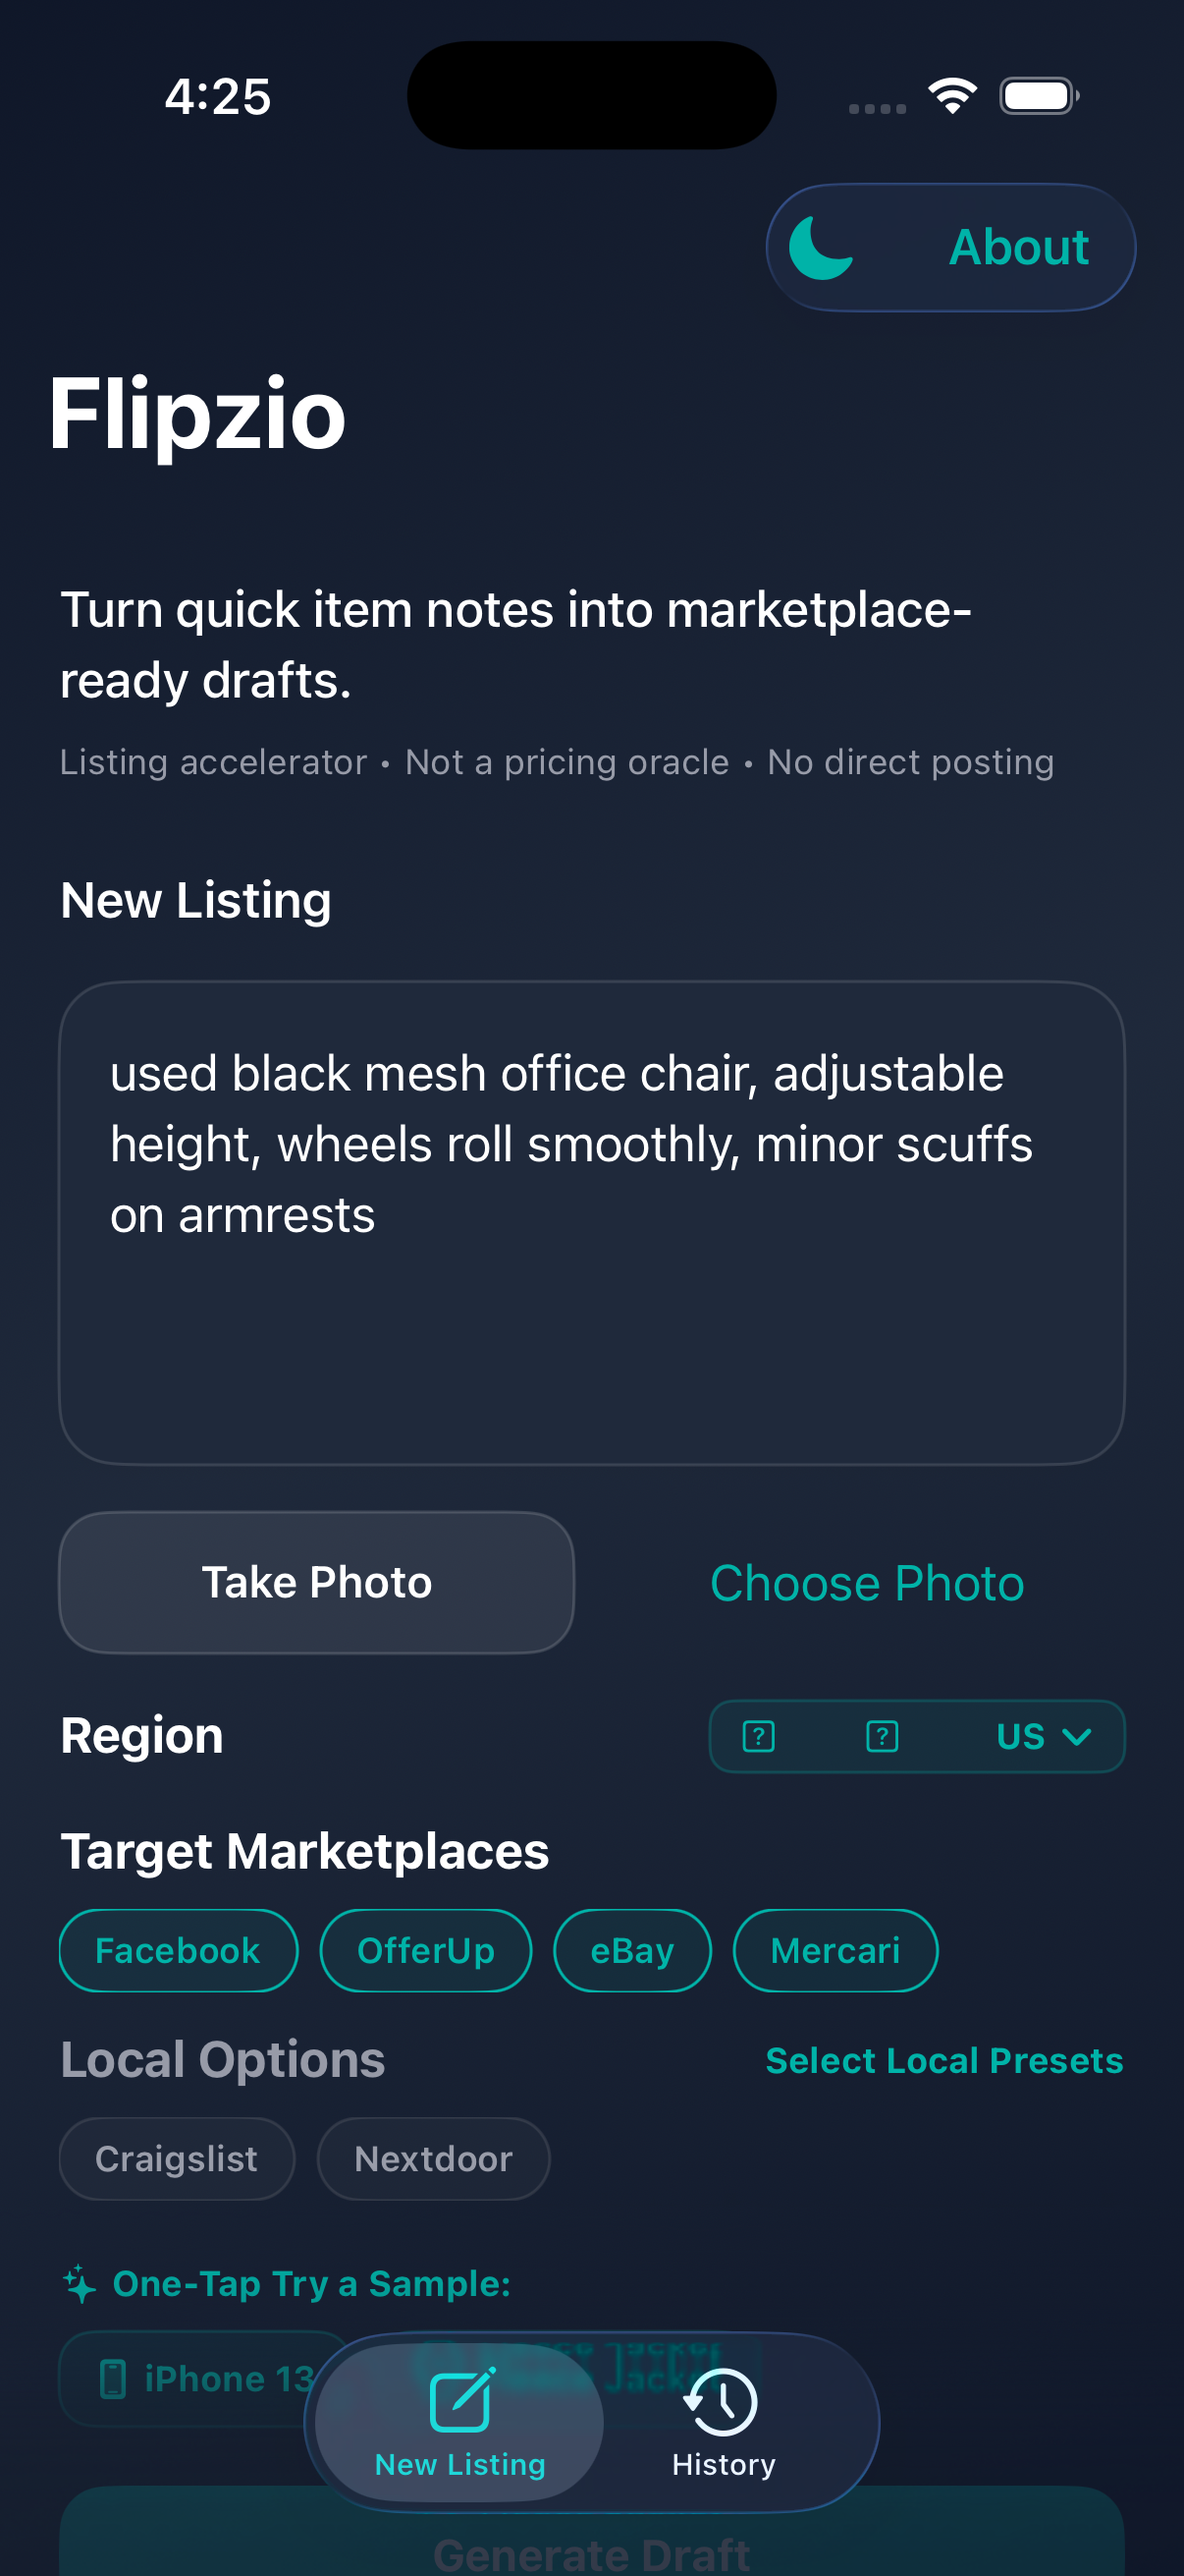
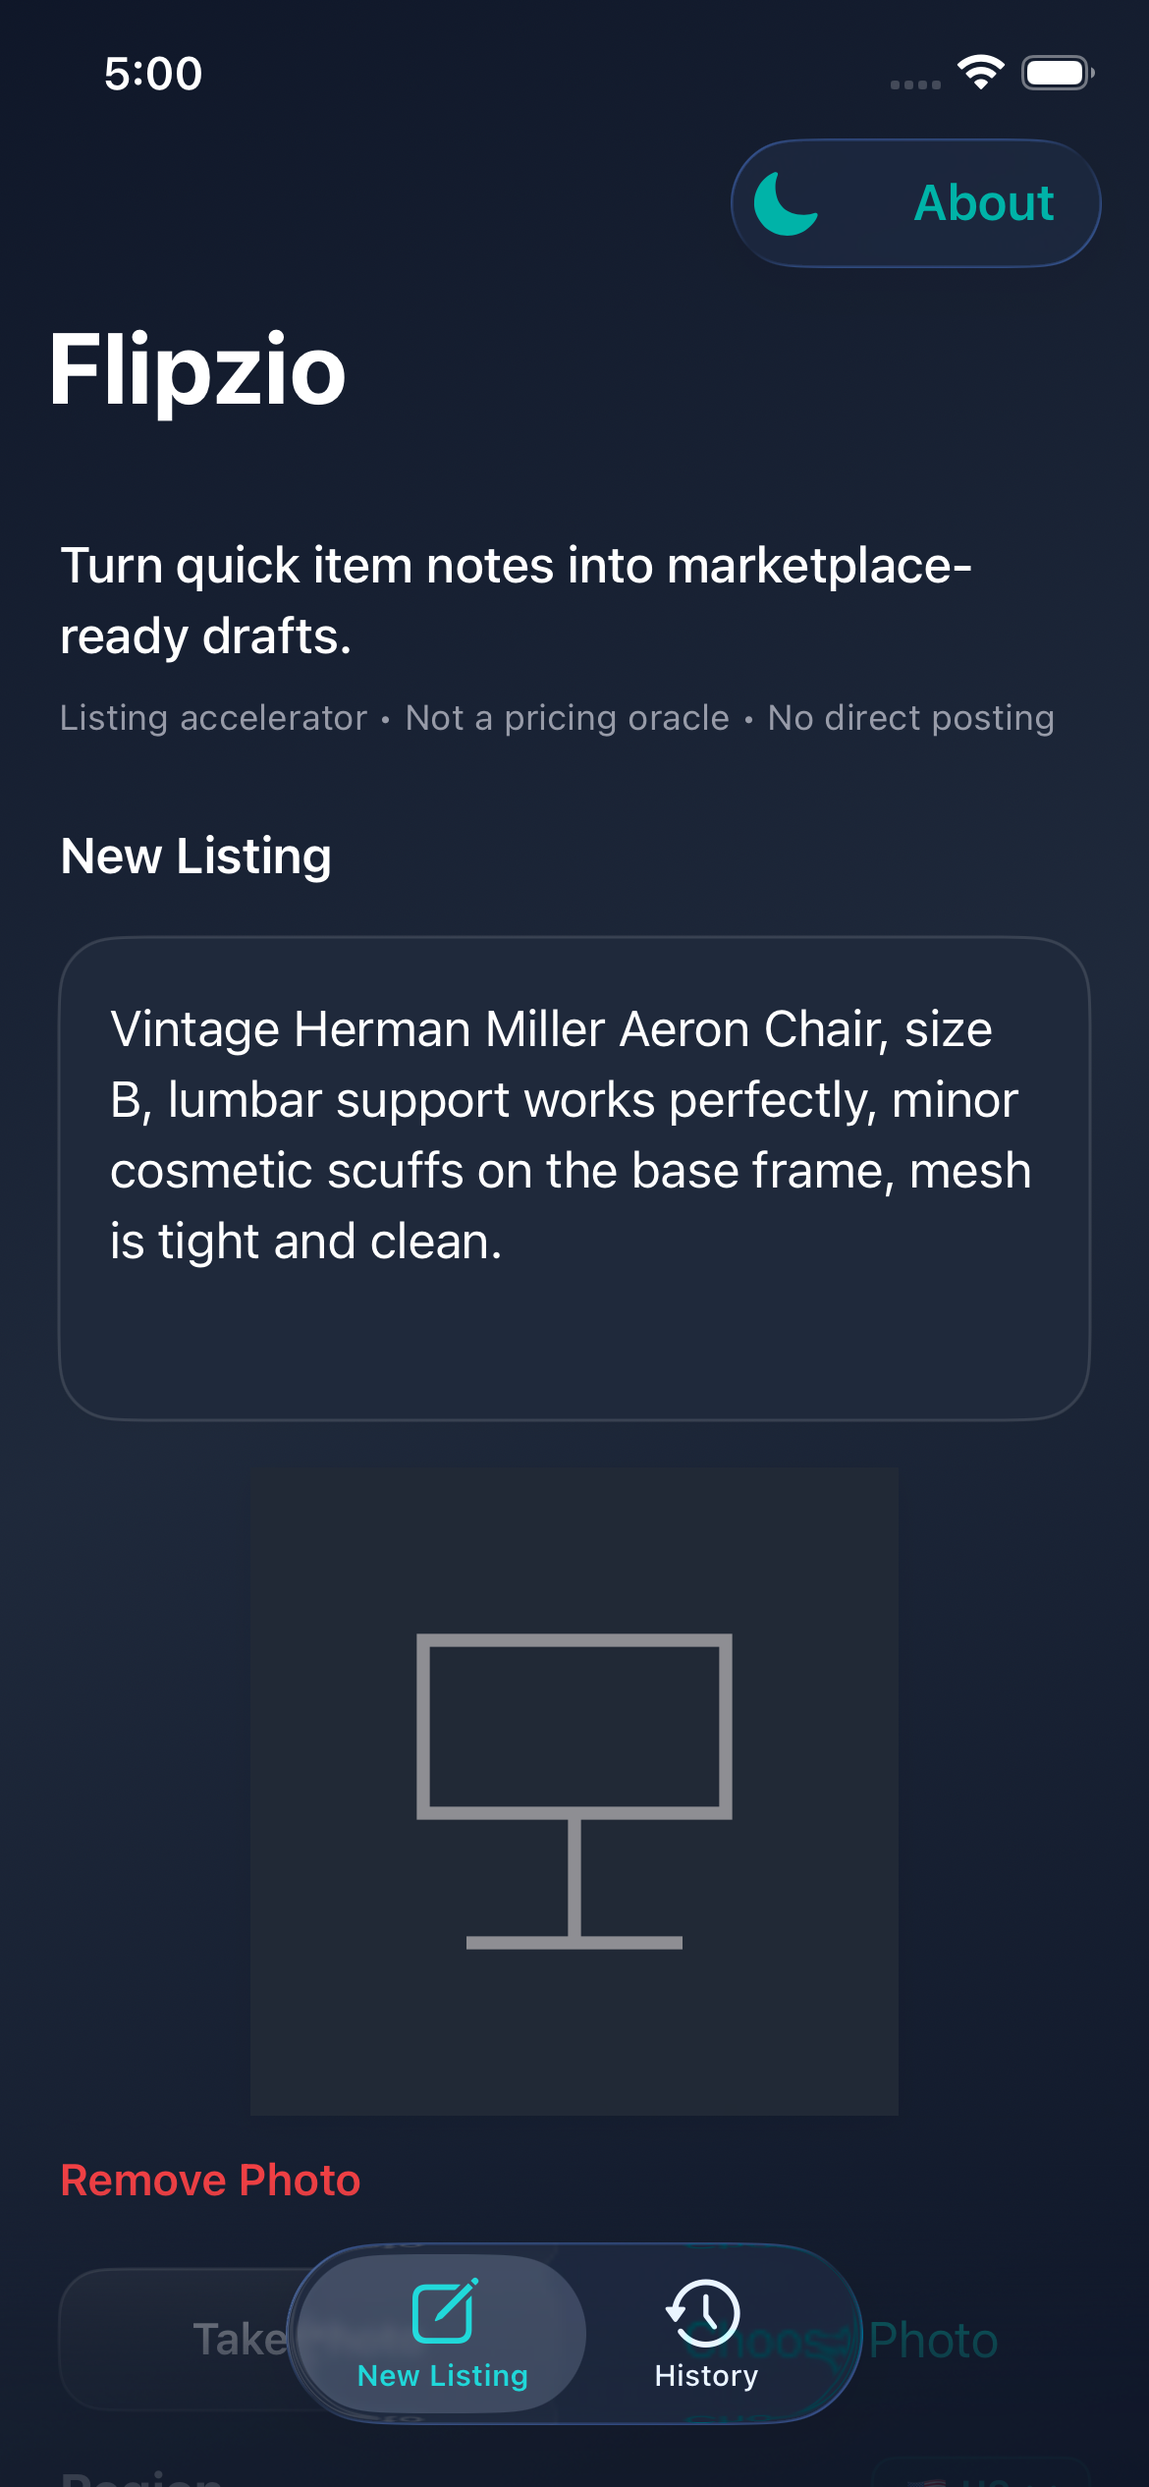
Update Flipzio landing page with interactive platform toggle, physical Pixel 8 screenshots, and notched iOS screenshots showing Aeron Chair with photo input

diff --git a/flipzio/index.html b/flipzio/index.html
@@ -97,11 +97,17 @@
 
           <div class="hero-visual" aria-label="Real Flipzio screenshots">
             <div class="hero-shot-stack">
+              <div class="platform-toggle-container">
+                <div class="platform-toggle" aria-label="Choose platform screenshots">
+                  <button class="toggle-btn active" data-platform="ios">iOS (iPhone XS Max)</button>
+                  <button class="toggle-btn" data-platform="android">Android (Pixel 8)</button>
+                </div>
+              </div>
               <figure class="hero-shot hero-shot--primary">
-                <img src="./assets/flipzio-home-input-ios-new.png" alt="Flipzio home screen showing item input and generate draft action" />
+                <img data-shot="home-input" src="./assets/flipzio-home-input-ios-new.png" alt="Flipzio home screen showing item input and generate draft action" />
               </figure>
               <figure class="hero-shot hero-shot--secondary">
-                <img src="./assets/flipzio-review-share-ios-new.png" alt="Flipzio review and share screen with generated marketplace draft copy" />
+                <img data-shot="review-share" src="./assets/flipzio-review-share-ios-new.png" alt="Flipzio review and share screen with generated marketplace draft copy" />
               </figure>
             </div>
           </div>
@@ -125,7 +131,7 @@
               <p>Choose US or SEA region. Toggle core and optional local platforms, then enter an item description and an optional photo.</p>
             </div>
             <figure class="screen-frame">
-              <img src="./assets/flipzio-home-input-ios-new.png" alt="Flipzio home screen showing region selection and platform toggles" />
+              <img data-shot="home-input" src="./assets/flipzio-home-input-ios-new.png" alt="Flipzio home screen showing region selection and platform toggles" />
             </figure>
           </article>
 
@@ -136,7 +142,7 @@
               <p>Inspect structured, platform-tailored output cards (with dedicated headline generation and price ranges) ready for quick copy or share actions.</p>
             </div>
             <figure class="screen-frame">
-              <img src="./assets/flipzio-review-share-ios-new.png" alt="Flipzio review screen with generated headline and base listing cards" />
+              <img data-shot="review-share" src="./assets/flipzio-review-share-ios-new.png" alt="Flipzio review screen with generated headline and base listing cards" />
             </figure>
           </article>
 
@@ -147,7 +153,7 @@
               <p>Browse previously generated draft summaries stored locally on your device for fast access, reuse, or deletion.</p>
             </div>
             <figure class="screen-frame">
-              <img src="./assets/flipzio-saved-drafts-ios-new.png" alt="Flipzio saved history screen with list of past generations" />
+              <img data-shot="saved-drafts" src="./assets/flipzio-saved-drafts-ios-new.png" alt="Flipzio saved history screen with list of past generations" />
             </figure>
           </article>
         </div>
@@ -170,7 +176,7 @@
               <p>Generates drafts for Facebook Marketplace, OfferUp, eBay, and Mercari, with optional add-ons for Craigslist and Nextdoor.</p>
             </div>
             <figure class="screen-frame">
-              <img src="./assets/flipzio-home-input-ios-new.png" alt="Flipzio US compose screen" />
+              <img data-shot="home-input" src="./assets/flipzio-home-input-ios-new.png" alt="Flipzio US compose screen" />
             </figure>
           </article>
 
@@ -181,7 +187,7 @@
               <p>Streamlined interface focusing on South East Asia markets with direct support for Carousell draft generation.</p>
             </div>
             <figure class="screen-frame">
-              <img src="./assets/flipzio-home-input-ios-sea.png" alt="Flipzio SEA compose screen with Carousell" />
+              <img data-shot="home-input-sea" src="./assets/flipzio-home-input-ios-sea.png" alt="Flipzio SEA compose screen with Carousell" />
             </figure>
           </article>
         </div>
@@ -235,5 +241,31 @@
       </div>
     </footer>
   </main>
+  <script>
+    document.addEventListener('DOMContentLoaded', () => {
+      const toggleBtns = document.querySelectorAll('.toggle-btn');
+      toggleBtns.forEach(btn => {
+        btn.addEventListener('click', () => {
+          const platform = btn.getAttribute('data-platform');
+          toggleBtns.forEach(b => {
+            if (b.getAttribute('data-platform') === platform) {
+              b.classList.add('active');
+            } else {
+              b.classList.remove('active');
+            }
+          });
+          
+          document.querySelectorAll('[data-shot]').forEach(img => {
+            const shot = img.getAttribute('data-shot');
+            if (platform === 'ios') {
+              img.src = `./assets/flipzio-${shot}-ios-new.png`;
+            } else {
+              img.src = `./assets/flipzio-${shot}-android-new.png`;
+            }
+          });
+        });
+      });
+    });
+  </script>
 </body>
 </html>

diff --git a/flipzio/site.css b/flipzio/site.css
@@ -841,3 +841,55 @@ body {
 .diagnostic-terminal div + div {
   margin-top: 8px;
 }
+
+/* Platform Toggle styling */
+.platform-toggle-container {
+  display: flex;
+  justify-content: center;
+  margin-bottom: 24px;
+  position: absolute;
+  top: -64px;
+  left: 0;
+  right: 0;
+  z-index: 10;
+}
+
+.platform-toggle {
+  display: inline-flex;
+  background: rgba(8, 16, 28, 0.9);
+  border: 0.5px solid var(--line-strong);
+  padding: 4px;
+  border-radius: 999px;
+  box-shadow: 0 4px 20px rgba(0, 0, 0, 0.4);
+}
+
+.toggle-btn {
+  background: transparent;
+  border: none;
+  color: var(--text-muted);
+  font-family: var(--font-sans);
+  font-size: 13px;
+  font-weight: 600;
+  padding: 8px 20px;
+  border-radius: 999px;
+  cursor: pointer;
+  transition: all 0.2s cubic-bezier(0.16, 1, 0.3, 1);
+}
+
+.toggle-btn:hover {
+  color: var(--text);
+}
+
+.toggle-btn.active {
+  background: var(--cyan);
+  color: #050a12;
+  box-shadow: 0 4px 12px rgba(34, 211, 238, 0.25);
+}
+
+@media (max-width: 768px) {
+  .platform-toggle-container {
+    position: relative;
+    top: 0;
+    margin-bottom: 32px;
+  }
+}
